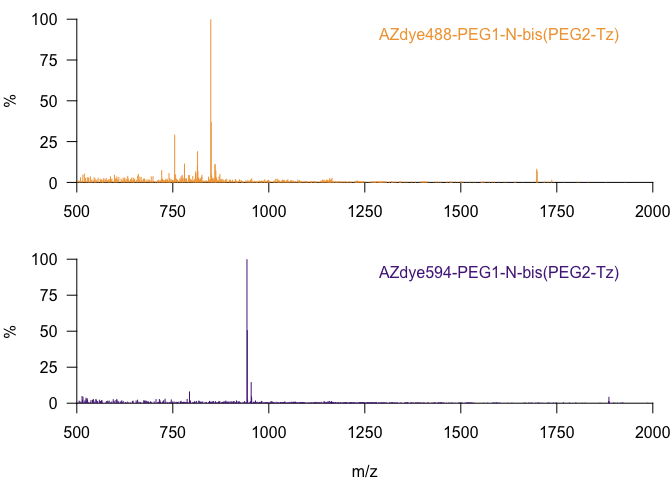
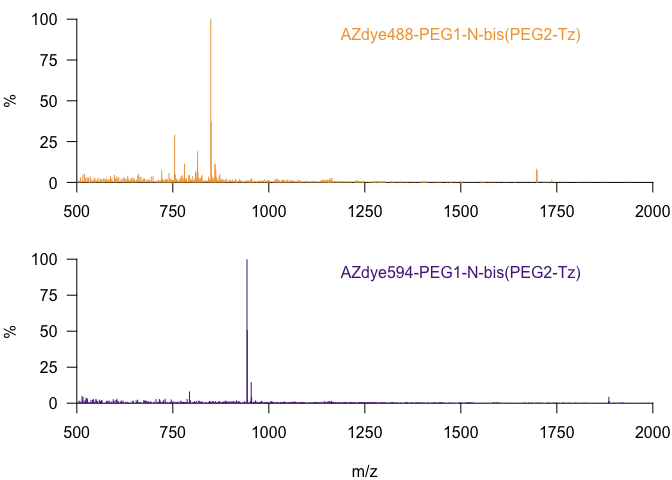
Updated S02 tutorial code

Changed region(s): [[0.5, 0.5312, 0.9375, 0.5938], [0.5, 0.0312, 0.9375, 0.0938]]

diff --git a/supplementary_fig02.md b/supplementary_fig02.md
@@ -526,14 +526,14 @@ par(mfrow = c(2, 1), mar = c(3, 4, 1, 1))
 # Plot the first sample data
 ms.plot(msdata[msdata$sample == 'RXN488',], col = RColorBrewer::brewer.pal(6, 'PuOr')[2])
 # Add label for the first sample
-text(1600, 90, mylabels[2], col = RColorBrewer::brewer.pal(6, 'PuOr')[2])
+text(1500, 90, mylabels[2], col = RColorBrewer::brewer.pal(6, 'PuOr')[2])
 
 # Reset the layout for the second subplot
 par(mar = c(4, 4, 1, 1))
 # Plot the second sample data
 ms.plot(msdata[msdata$sample == 'RXN594',], col = RColorBrewer::brewer.pal(6, 'PuOr')[6])
 # Add label for the second sample
-text(1600, 90, mylabels[1], col = RColorBrewer::brewer.pal(6, 'PuOr')[6])
+text(1500, 90, mylabels[1], col = RColorBrewer::brewer.pal(6, 'PuOr')[6])
 ```
 
 ![](supplementary_fig02_files/figure-commonmark/unnamed-chunk-23-1.png)
